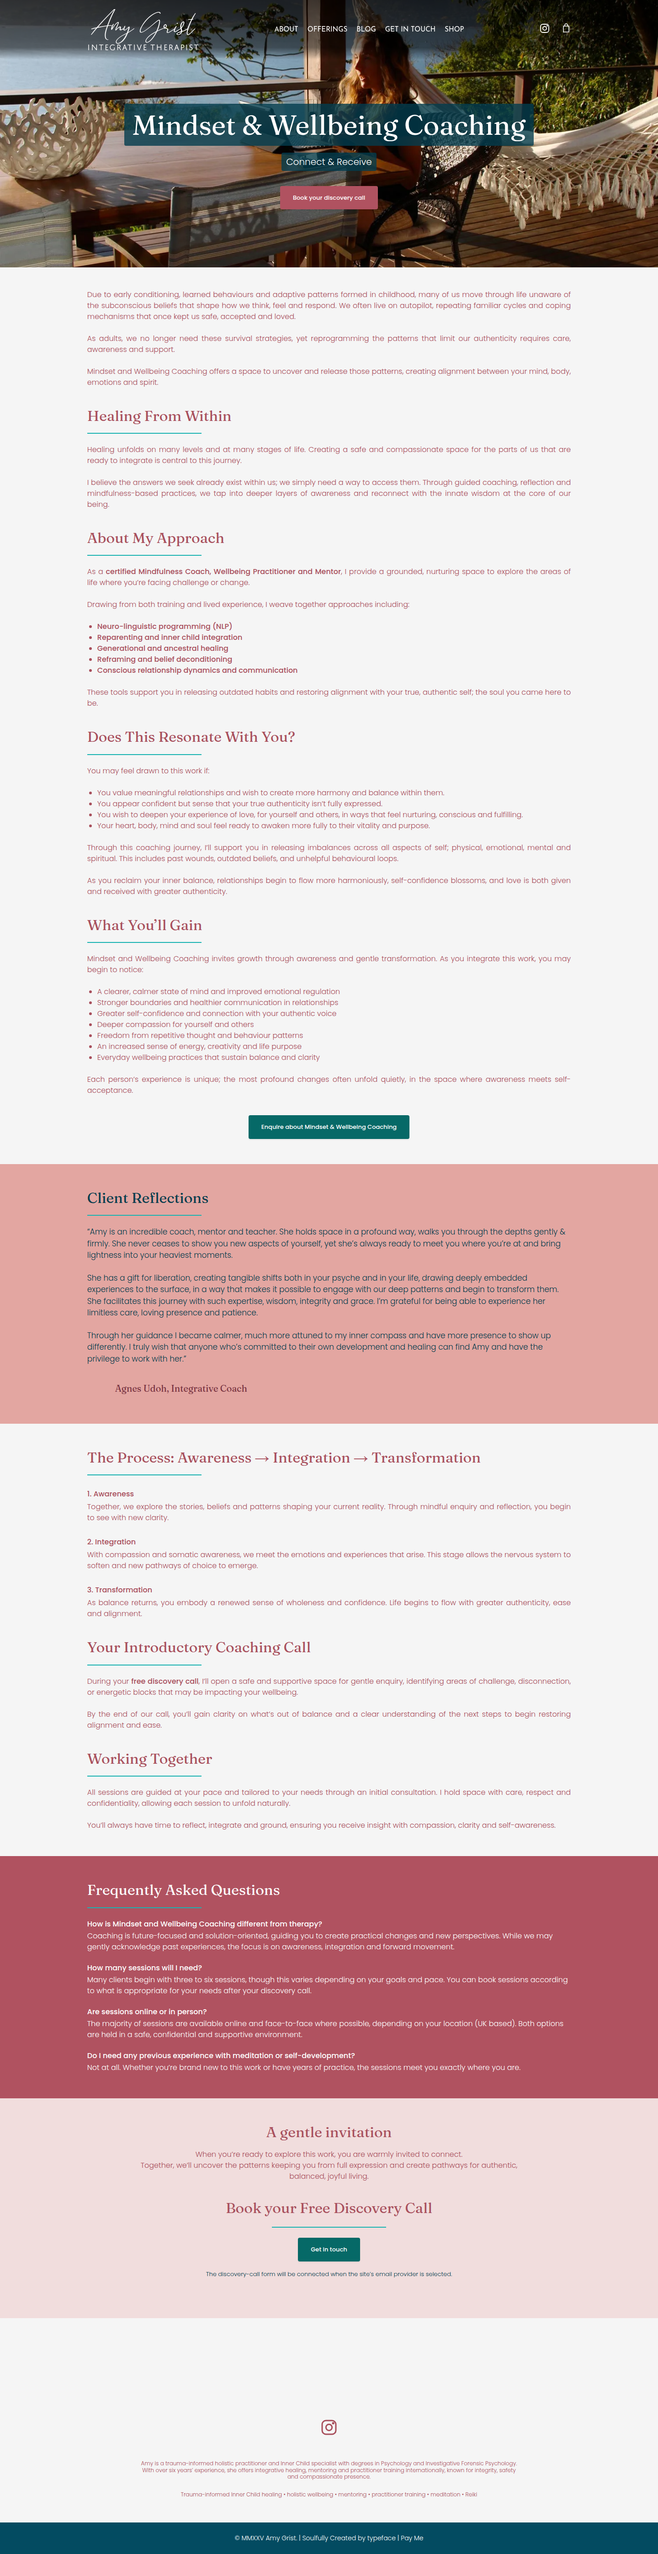
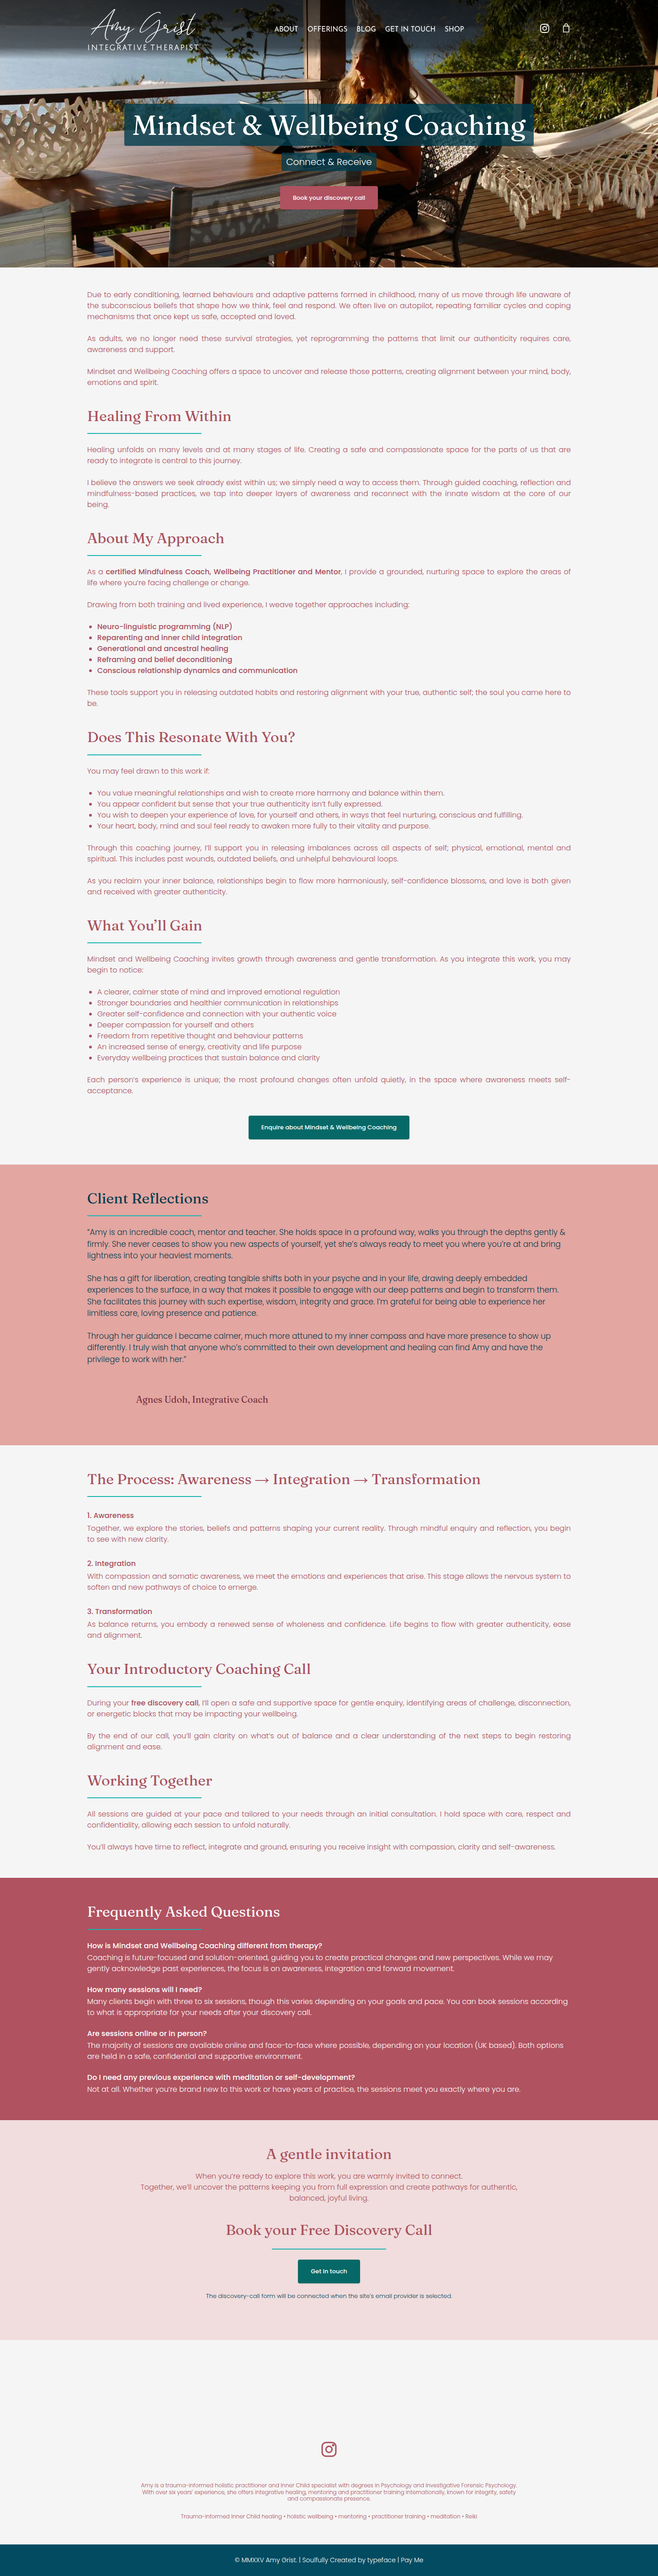
Enlarge coaching testimonial portrait

diff --git a/WORK-LOG.md b/WORK-LOG.md
@@ -138,3 +138,7 @@ The user selected Cloudflare Email Service for website form delivery, with `amyg
 The hero reuses original media ID 281, `2020/03/amygrist_intimate_setting_inner_child_workshop.jpg`. The body image uses media ID 315’s original 848×848 upload, `2020/07/amy_grist_inner_child_card_reading.jpg`, rather than its later WordPress `-e1595605146437` edited crop or any generated size. Its byte-for-byte checksum provenance is recorded in `migration/media-originals.json`, and Astro generates responsive WebP output. No dedicated desktop or mobile reference screenshot was supplied, so the layout follows the verified offering-page design system.
 
 Astro check reports 0 errors, warnings and hints, and the production build passes with 12 pages. Focused 375 px and 1440 px browser checks returned 200 with no overflow, broken images, browser console errors or page errors. Captures are `verification/inner-child-card-readings-{375,1440}.png`. The local review URL is `http://127.0.0.1:4323/inner-child-card-readings/`.
+
+### Coaching testimonial portrait adjustment
+
+At the user’s request, the Agnes Udoh testimonial portrait on `/one-to-one-coaching/` was enlarged by 200%, from 46×46 px to 92×92 px. The Astro image output dimensions and rendered CSS dimensions were both updated to preserve sharpness. Astro check and build pass; refreshed 375 px and 1440 px focused captures show no overflow, broken images or browser errors.
